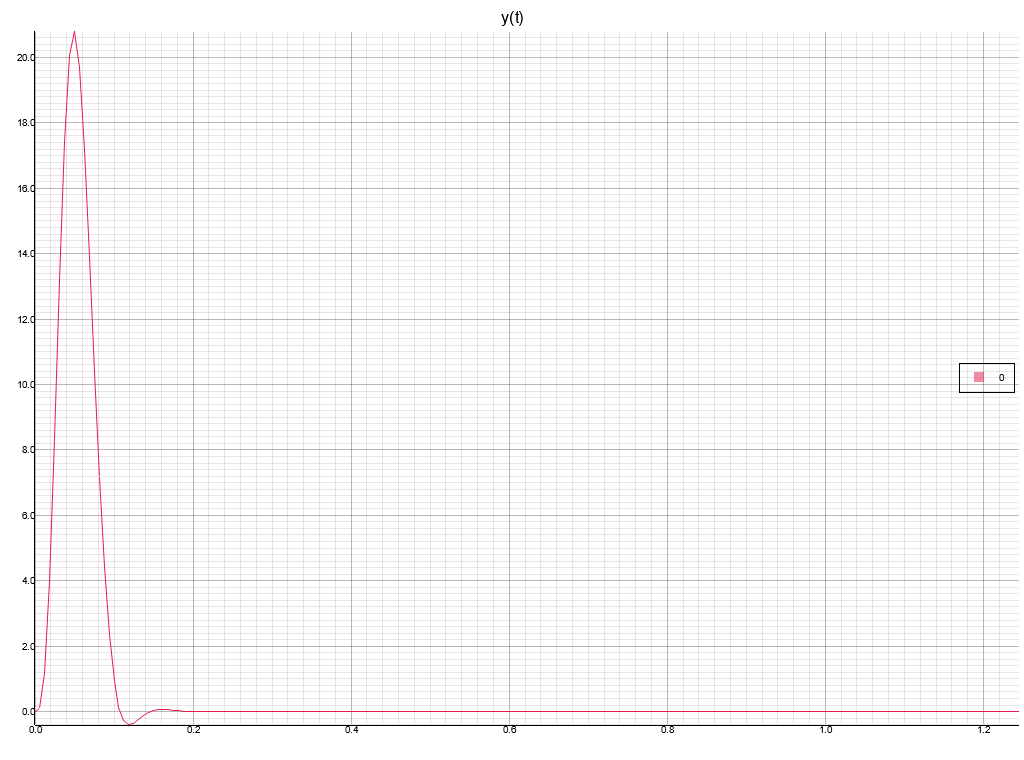
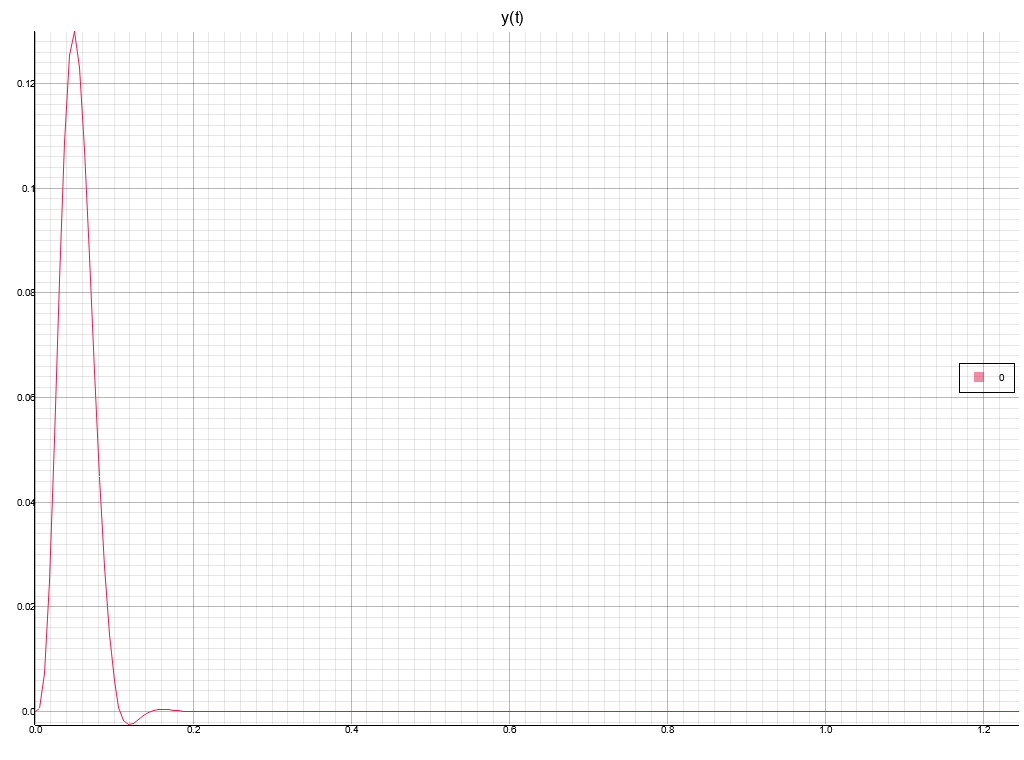
Add impulse_z

Changed region(s): [[0.0312, 0.0303, 1.0, 0.9684]]

diff --git a/src/analysis/impulse_z.rs b/src/analysis/impulse_z.rs
@@ -1,0 +1,251 @@
+use ndarray::{Array1, Array2};
+use num::{complex::ComplexFloat, traits::real::Real, NumCast, Zero};
+use option_trait::{Maybe, StaticMaybe};
+
+use crate::{quantities::{Lists, MatrixOrSingle, MaybeList, MaybeLists, MaybeOwnedList, OwnedListOrSingle}, systems::{Sos, Ss, SsAMatrix, SsBMatrix, SsCMatrix, SsDMatrix, Tf, Zpk}, transforms::system::ToSs, util::{self, TwoSidedRange}, System};
+
+pub trait ImpulseZ: System
+{
+    type Output: MatrixOrSingle<Vec<Self::Set>>;
+
+    fn impulse_z<T, W>(self, t: T, w: W, sampling_frequency: <Self::Set as ComplexFloat>::Real)
+        -> (Vec<<Self::Set as ComplexFloat>::Real>, Self::Output)
+    where
+        T: TwoSidedRange<<Self::Set as ComplexFloat>::Real>,
+        W: Maybe<Vec<Self::Set>>;
+}
+
+impl<T, A, B, C, D> ImpulseZ for Ss<T, A, B, C, D>
+where
+    T: ComplexFloat + 'static,
+    A: SsAMatrix<T, B, C, D>,
+    B: SsBMatrix<T, A, C, D>,
+    C: SsCMatrix<T, A, B, D>,
+    D: SsDMatrix<T, A, B, C>,
+    <D::Transpose as MaybeLists<T>>::RowsMapped<D::RowsMapped<Vec<T>>>: Lists<Vec<T>> + OwnedListOrSingle<D::RowsMapped<Vec<T>>, Length: StaticMaybe<usize, Opposite: Sized>>,
+    D::RowsMapped<Vec<T>>: OwnedListOrSingle<Vec<T>, Length: StaticMaybe<usize, Opposite: Sized>>,
+    Array2<T>: SsAMatrix<T, Array2<T>, Array2<T>, Array2<T>> + SsBMatrix<T, Array2<T>, Array2<T>, Array2<T>> + SsCMatrix<T, Array2<T>, Array2<T>, Array2<T>> + SsDMatrix<T, Array2<T>, Array2<T>, Array2<T>>
+{
+    type Output = <<D::Transpose as MaybeLists<T>>::RowsMapped<D::RowsMapped<Vec<T>>> as Lists<Vec<T>>>::CoercedMatrix;
+
+    fn impulse_z<TT, W>(self, t: TT, w: W, sampling_frequency: T::Real)
+        -> (Vec<T::Real>, Self::Output)
+    where
+        TT: TwoSidedRange<T::Real>,
+        W: Maybe<Vec<T>>
+    {
+        let Ss {mut a, mut b, mut c, mut d, ..} = Ss::new(
+            self.a.to_array2().map(|&a| a.into()),
+            self.b.to_array2().map(|&b| b.into()),
+            self.c.to_array2().map(|&c| c.into()),
+            self.d.to_array2().map(|&d| d.into())
+        );
+
+        let (ma, na) = a.dim();
+        let (mb, nb) = b.dim();
+        let (mc, nc) = c.dim();
+        let (md, nd) = d.dim();
+
+        let n = ma.max(na).max(mb).max(nc);
+        let p = nb.max(nd);
+        let q = mc.max(md);
+
+        fn resize<T>(m: &mut Array2<T>, dim: (usize, usize))
+        where
+            T: Zero + Clone
+        {
+            let row = Array1::from_elem(m.dim().1, T::zero());
+            while m.dim().0 < dim.0
+            {
+                m.push_row(row.view()).unwrap();
+            }
+            let col = Array1::from_elem(m.dim().0, T::zero());
+            while m.dim().1 < dim.1
+            {
+                m.push_column(col.view()).unwrap();
+            }
+        }
+
+        resize(&mut a, (n, n));
+        resize(&mut b, (n, p));
+        resize(&mut c, (q, n));
+        resize(&mut d, (q, p));
+        
+        let w0 = w.into_option()
+            .map(|mut w| {
+                w.resize(n, T::zero());
+                w
+            })
+            .unwrap_or_else(|| vec![T::zero(); n]);
+
+        let zero = T::Real::zero();
+
+        let tmax = <T::Real as NumCast>::from(usize::MAX).unwrap();
+        let t_range = <usize as NumCast>::from((*t.start()*sampling_frequency).floor()
+                    .min(tmax)
+                    .max(zero)
+                ).unwrap()
+            ..
+            <usize as NumCast>::from((*t.end()*sampling_frequency).ceil()
+                    .min(tmax)
+                    .max(zero)
+                ).unwrap()
+                .saturating_add(t.is_end_inclusive() as usize);
+        let t: Vec<_> = t_range.clone()
+            .map(|t| <T::Real as NumCast>::from(t).unwrap())
+            .collect();
+        
+        let yout = <D::Transpose as MaybeLists<T>>::RowsMapped::<D::RowsMapped::<Vec<T>>>::from_len_fn(StaticMaybe::maybe_from_fn(|| p), |i| {
+            let mut xout = vec![w0.clone()];
+            let mut yout = vec![];
+            if *t_range.end() > 0 && *t_range.start() < *t_range.end()
+            {
+                let x = xout.last()
+                    .map(|x| Array1::from_vec(x.clone()))
+                    .unwrap_or_else(|| Array1::from_elem(n, T::zero()));
+                let u = Array1::from_shape_fn(p, |p| T::from((p == i) as u8).unwrap());
+                yout.push((c.dot(&x) + d.dot(&u)).to_vec());
+                xout.push((a.dot(&x) + b.dot(&u)).to_vec());
+            }
+            for _ in 2..*t_range.end()
+            {
+                let x = xout.last()
+                    .map(|x| Array1::from_vec(x.clone()))
+                    .unwrap_or_else(|| Array1::from_elem(n, T::zero()));
+                yout.push(c.dot(&x).to_vec());
+                xout.push(a.dot(&x).to_vec());
+            }
+            if *t_range.end() > 0 && *t_range.start() < *t_range.end()
+            {
+                let x = xout.last()
+                    .map(|x| Array1::from_vec(x.clone()))
+                    .unwrap_or_else(|| Array1::from_elem(n, T::zero()));
+                yout.push(c.dot(&x).to_vec());
+            }
+    
+            let mut yout = util::transpose_vec_vec(yout.into_iter()
+                    .skip(*t_range.start())
+                    .collect()
+                ).into_iter();
+            OwnedListOrSingle::from_len_fn(StaticMaybe::maybe_from_fn(|| q), |_| {
+                yout.next()
+                    .unwrap()
+            })
+        }).coerce_into_matrix(|| panic!("Invalid matrix size"));
+
+        (
+            t.into_iter()
+                .map(|t| t/sampling_frequency)
+                .collect(),
+            yout
+        )
+    }
+}
+
+impl<T, B, A> ImpulseZ for Tf<T, B, A>
+where
+    T: ComplexFloat,
+    B: MaybeLists<T>,
+    A: MaybeList<T>,
+    Self: System<Set = T> + ToSs<T, Array2<T>, Array2<T>, Array2<T>, Array2<T>>,
+    Array2<T>: SsAMatrix<T, Array2<T>, Array2<T>, Array2<T>> + SsBMatrix<T, Array2<T>, Array2<T>, Array2<T>> + SsCMatrix<T, Array2<T>, Array2<T>, Array2<T>> + SsDMatrix<T, Array2<T>, Array2<T>, Array2<T>>,
+    Ss<T, Array2<T>, Array2<T>, Array2<T>, Array2<T>>: ImpulseZ<Output = Array2<Vec<T>>> + System<Set = T>,
+    B::RowsMapped<Vec<T>>: Lists<T> + OwnedListOrSingle<Vec<T>, Length: StaticMaybe<usize, Opposite: Sized>>
+{
+    type Output = B::RowsMapped<Vec<T>>;
+
+    fn impulse_z<TT, W>(self, t: TT, w: W, sampling_frequency: T::Real)
+        -> (Vec<T::Real>, Self::Output)
+    where
+        TT: TwoSidedRange<T::Real>,
+        W: Maybe<Vec<T>>
+    {
+        let (t, y) = self.to_ss()
+            .impulse_z(t, w, sampling_frequency);
+
+        let q = y.len();
+        let mut y = y.into_iter();
+
+        (
+            t,
+            OwnedListOrSingle::from_len_fn(StaticMaybe::maybe_from_fn(|| q), |_| y.next().unwrap())
+        )
+    }
+}
+
+impl<T, Z, P, K> ImpulseZ for Zpk<T, Z, P, K>
+where
+    T: ComplexFloat,
+    Z: MaybeList<T>,
+    P: MaybeList<T>,
+    K: ComplexFloat<Real = T::Real>,
+    Self: System<Set = K> + ToSs<K, Array2<K>, Array2<K>, Array2<K>, Array2<K>>,
+    Array2<K>: SsAMatrix<K, Array2<K>, Array2<K>, Array2<K>> + SsBMatrix<K, Array2<K>, Array2<K>, Array2<K>> + SsCMatrix<K, Array2<K>, Array2<K>, Array2<K>> + SsDMatrix<K, Array2<K>, Array2<K>, Array2<K>>,
+    Ss<K, Array2<K>, Array2<K>, Array2<K>, Array2<K>>: System<Set = K> + ImpulseZ<Output = Array2<Vec<K>>>
+{
+    type Output = Vec<K>;
+
+    fn impulse_z<TT, W>(self, t: TT, w: W, sampling_frequency: T::Real)
+        -> (Vec<T::Real>, Self::Output)
+    where
+        TT: TwoSidedRange<T::Real>,
+        W: Maybe<Vec<K>>
+    {
+        let (t, y) = self.to_ss()
+            .impulse_z(t, w, sampling_frequency);
+
+        (
+            t,
+            y.into_iter().next().unwrap()
+        )
+    }
+}
+
+impl<T, B, A, S> ImpulseZ for Sos<T, B, A, S>
+where
+    T: ComplexFloat,
+    B: Maybe<[T; 3]> + MaybeOwnedList<T>,
+    A: Maybe<[T; 3]> + MaybeOwnedList<T>,
+    S: MaybeList<Tf<T, B, A>>,
+    Self: System<Set = T> + ToSs<T, Array2<T>, Array2<T>, Array2<T>, Array2<T>>,
+    Array2<T>: SsAMatrix<T, Array2<T>, Array2<T>, Array2<T>> + SsBMatrix<T, Array2<T>, Array2<T>, Array2<T>> + SsCMatrix<T, Array2<T>, Array2<T>, Array2<T>> + SsDMatrix<T, Array2<T>, Array2<T>, Array2<T>>,
+    Ss<T, Array2<T>, Array2<T>, Array2<T>, Array2<T>>: System<Set = T> + ImpulseZ<Output = Array2<Vec<T>>>
+{
+    type Output = Vec<T>;
+
+    fn impulse_z<TT, W>(self, t: TT, w: W, sampling_frequency: T::Real)
+        -> (Vec<T::Real>, Self::Output)
+    where
+        TT: TwoSidedRange<T::Real>,
+        W: Maybe<Vec<T>>
+    {
+        let (t, y) = self.to_ss()
+            .impulse_z(t, w, sampling_frequency);
+
+        (
+            t,
+            y.into_iter().next().unwrap()
+        )
+    }
+}
+
+#[cfg(test)]
+mod test
+{
+    use crate::{analysis::ImpulseZ, gen::filter::{BesselF, FilterGenPlane, FilterGenType}, plot, systems::Tf};
+
+    #[test]
+    fn test()
+    {
+        const T: f64 = 1.25;
+        const N: usize = 200;
+        const FS: f64 = N as f64/T;
+        let h = Tf::besself(5, [12.0], FilterGenType::LowPass, FilterGenPlane::Z { sampling_frequency: Some(FS) })
+            .unwrap();
+
+        let (tt, y) = h.impulse_z(0.0..T, (), FS);
+
+        plot::plot_curves("y(t)", "plots/y_t_impulse_z.png", [&tt.into_iter().zip(y).collect::<Vec<_>>()])
+            .unwrap();
+    }
+}

diff --git a/src/analysis/impulse_s.rs b/src/analysis/impulse_s.rs
@@ -1,3 +1,5 @@
+use core::{iter::Sum, ops::{DivAssign, MulAssign}};
+
 use ndarray::Array2;
 use num::{complex::ComplexFloat, NumCast, One};
 use option_trait::{Maybe, StaticMaybe};
@@ -23,11 +25,11 @@ where
 
 impl<T, A, B, C, D, L, YY> ImpulseS<L> for Ss<T, A, B, C, D>
 where
-    T: ComplexFloat,
+    T: ComplexFloat + MulAssign<T::Real>,
     A: SsAMatrix<T, B, C, D>,
-    B: SsBMatrix<T, A, C, D>,
+    B: for<'a> SsBMatrix<T, A, C, D, RowView<'a>: List<T>>,
     C: SsCMatrix<T, A, B, D>,
-    D: for<'a> SsDMatrix<T, A, B, C, RowView<'a>: List<T>>,
+    D: SsDMatrix<T, A, B, C>,
     L: OwnedList<T::Real, Mapped<T> = YY>,
     <L::Length as StaticMaybe<usize>>::Opposite: Sized + Clone,
     D::RowsMapped<YY>: Lists<T>,
@@ -53,7 +55,7 @@ where
     {
         let w = w.into_option();
         
-        let d: Array2<T> = self.d.to_array2();
+        let b: Array2<T> = self.b.to_array2();
 
         let n = numtaps.into_option()
             .unwrap_or(L::LENGTH);
@@ -76,8 +78,12 @@ where
 
         let dn = self.d.matrix_dim().1.max(self.b.matrix_dim().1);
         let y = <D::Transpose as MaybeLists<T>>::RowsMapped::<Self::OutputI>::from_len_fn(StaticMaybe::maybe_from_fn(|| dn), |i| {
-            let d = d.column(i)
+            let mut b = b.column(i)
                 .to_vec();
+            for b in b.iter_mut()
+            {
+                *b *= dt
+            }
     
             let w = match w.clone()
             {
@@ -85,12 +91,12 @@ where
                     let wn = w.len();
                     w.into_iter()
                         .chain(core::iter::repeat(T::zero())
-                            .take(d.len().saturating_sub(wn))
-                        ).zip(d)
+                            .take(b.len().saturating_sub(wn))
+                        ).zip(b)
                         .map(|(w, b)| w + b)
                         .collect()
                 },
-                None => d
+                None => b
             };
     
             let (_, y, _) = self.as_view()

diff --git a/src/quantities/maybe_lists.rs b/src/quantities/maybe_lists.rs
@@ -3,7 +3,9 @@
 use ndarray::{prelude::Array1, Array2, ArrayView1, ArrayView2};
 use option_trait::StaticMaybe;
 
-use crate::quantities::{ListOrSingle, Lists, MaybeContainer, MaybeList, ListsOrSingle};
+use crate::quantities::{ListOrSingle, Lists, MaybeContainer, MaybeList, ListsOrSingle, OwnedListOrSingle};
+
+use super::MaybeOwnedList;
 
 pub trait MaybeLists<T>: MaybeContainer<T>
 {
@@ -13,12 +15,12 @@ pub trait MaybeLists<T>: MaybeContainer<T>
     const WIDTH: usize;
     const IS_FLATTENED: bool;
 
-    type RowsMapped<M>: ListOrSingle<M>;
+    type RowsMapped<M>: OwnedListOrSingle<M, Length = Self::Height>;
     type RowView<'a>: MaybeList<T> + 'a
     where
         T: 'a,
         Self: 'a;
-    type RowOwned: MaybeList<T>;
+    type RowOwned: MaybeOwnedList<T>;
 
     fn index_view<'a>(&'a self, i: usize) -> Self::RowView<'a>
     where

diff --git a/src/analysis/sim_z.rs b/src/analysis/sim_z.rs
@@ -43,7 +43,6 @@ where
         TT: TwoSidedRange<T::Real>,
         W: Maybe<Vec<Y>>
     {
-        (|| {
         let Ss {mut a, mut b, mut c, mut d, ..} = Ss::new(
             self.a.to_array2().map(|&a| a.into()),
             self.b.to_array2().map(|&b| b.into()),
@@ -207,7 +206,6 @@ where
             }),
             xout
         )
-        })()
     }
 }
 

diff --git a/src/analysis/mod.rs b/src/analysis/mod.rs
@@ -13,6 +13,7 @@ moddef::moddef!(
         fwhm,
         grpdelay,
         impulse_s,
+        impulse_z,
         impz,
         isallpass,
         islinphase,
